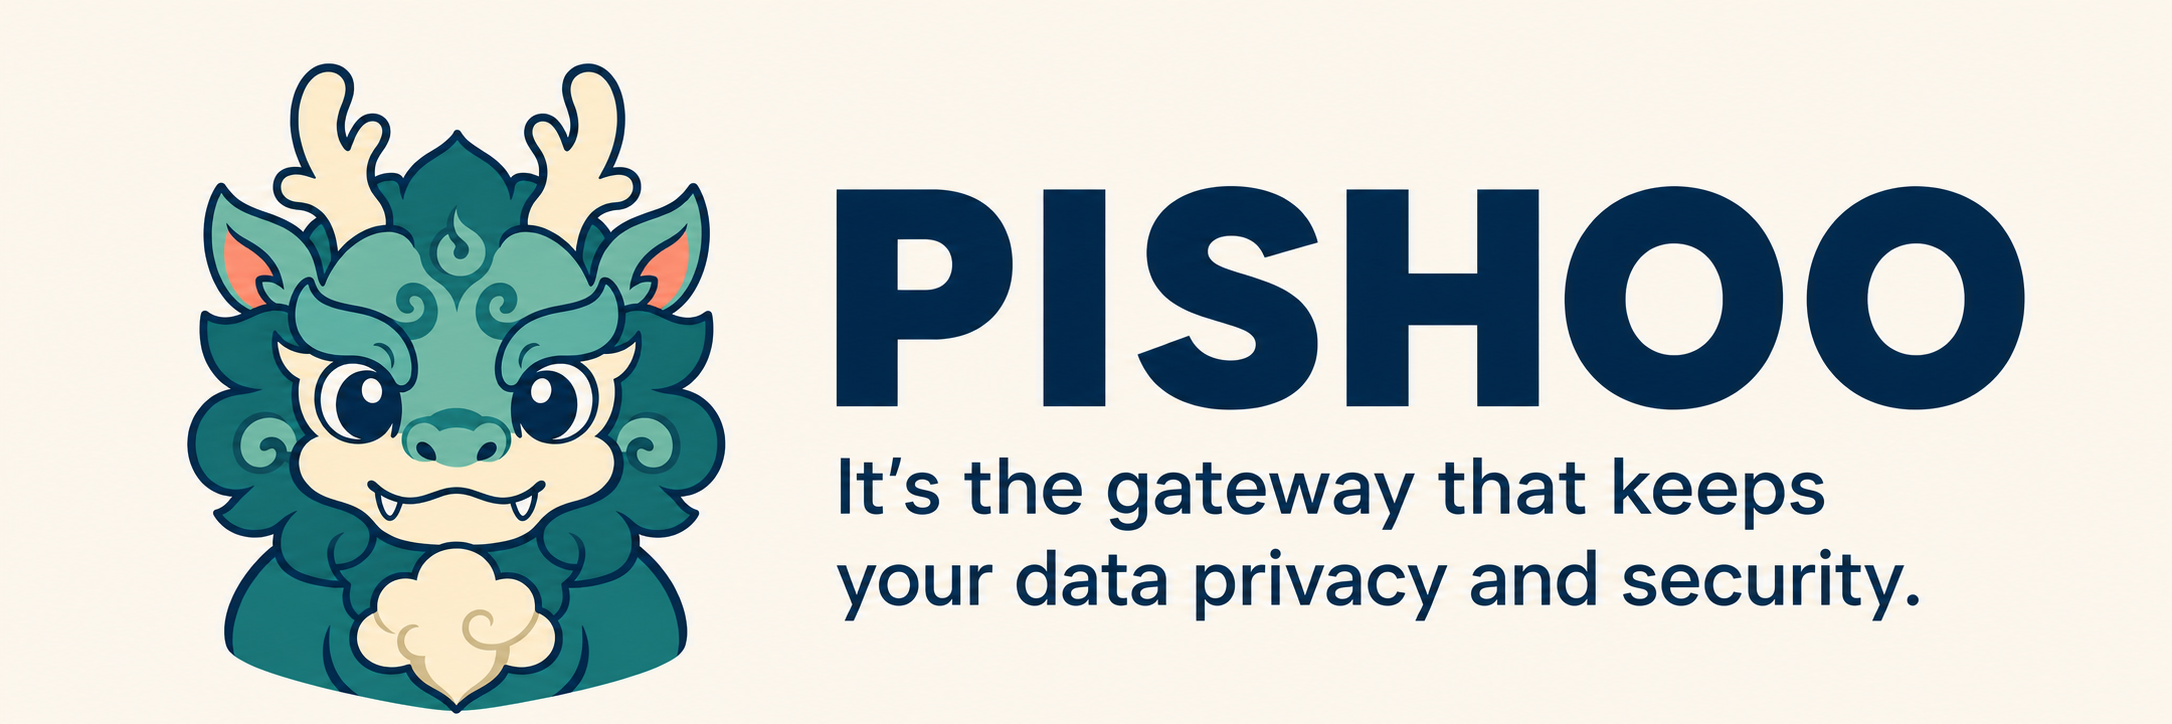
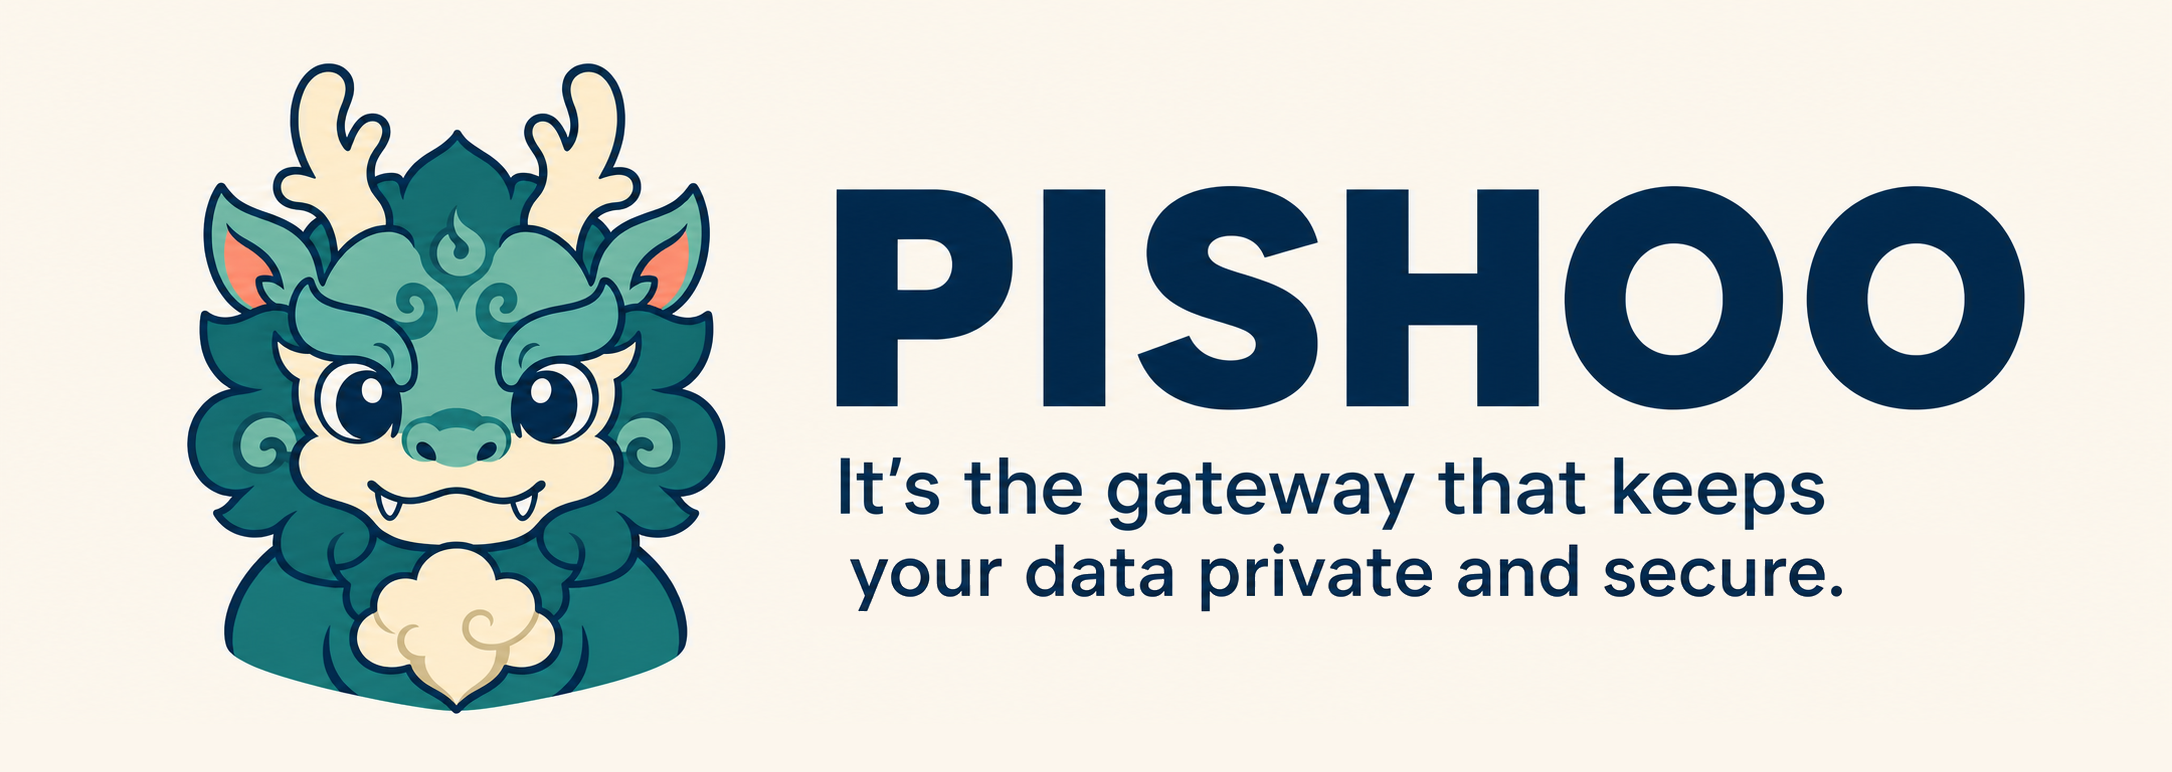
docs: update README

diff --git a/README.md b/README.md
@@ -1,5 +1,5 @@
 <p align="center">
-  <img src="assets/pishoo/pishoo-readme-title.png" alt="PISHOO — It's the gateway that keeps your data privacy and security." width="900">
+  <img src="assets/pishoo/pishoo-readme-title.png" alt="PISHOO — It's the gateway that keeps your data private and secure." width="900">
 </p>
 
 <p align="center">
@@ -12,10 +12,10 @@ Pishoo takes its name from Pixiu(貔貅), an auspicious creature in ancient Chin
 
 ## Why Pishoo?
 
-**Gateways Protect Data Assets:** Why do your privacy and data so often leak while internet platforms are less concerned? Platforms have gateways! A gateway is the essential infrastructure. Keep your private data behind a protected boundary.
+**Gateways Protect Data Assets:** Why are your privacy and data so often leak while internet platforms seem less concerned? Platforms have gateways! It's the gateway that plays a critical role in protecting your private data. Think about it: isn't a gate meant to protect private territory? So, get Pishoo and put the gateway in front of your private data assets.
 
 - **Personal Server:** Cloud servers are not the only option. You should be free to choose any device as your personal server.
-- **Agent Home:** The best way to access an intelligent assistant is not through a chat app, but directly in your browser. Let your agents live inside Pishoo.
+- **Agent Home:** The best way to access an intelligent assistant is not through a chat app, but directly in your browser. To make that happen, let your agents live behind Pishoo.
 
 ## How it works
 
